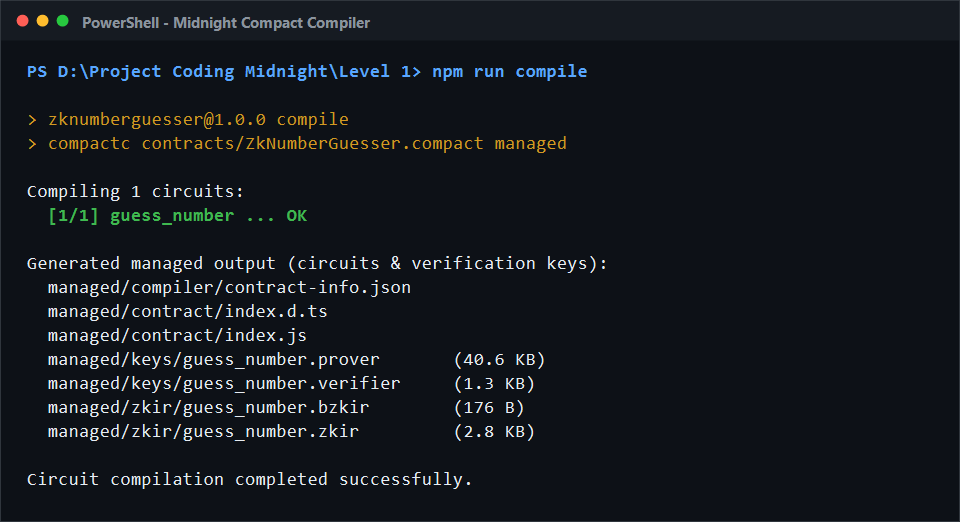
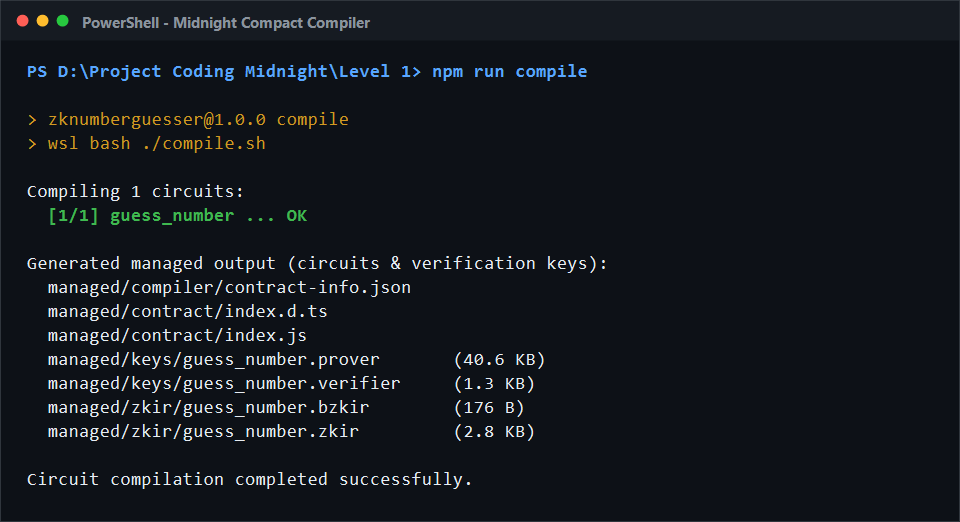
docs: add textual contract address and clarify private circuit input model
- add explicit textual contract address and Midnight Preprod network section
- clarify distinction between private circuit inputs and Compact witnesses
- update verification screenshots for compilation, testing, and deployment

Changed region(s): [[0.0625, 0.2452, 0.4062, 0.3065], [0.4375, 0.2452, 0.5938, 0.3065]]

diff --git a/README.md b/README.md
@@ -1,74 +1,116 @@
 # ZkNumberGuesser
 
-A Zero-Knowledge Number Guessing Game built with the Midnight Compact smart contract language.
+A Zero-Knowledge Number Guessing Game smart contract built with the **Midnight Compact** language and integrated with the **Midnight.js SDK**.
 
 ---
 
-## 💡 Initial Product Idea
-**ZkNumberGuesser** is a privacy-first, zero-knowledge number guessing game. Players submit their guesses as a private witness to the smart contract. The contract circuit verifies whether the guess matches the secret value. By utilizing `disclose()`, the contract deliberately controls what information is published to the public ledger state: it only reveals whether the guess was correct and updates the attempts counter. The player's actual guess remains completely private and is never exposed on the public blockchain.
+## 💡 Product Idea & Architecture
+
+**ZkNumberGuesser** is a privacy-first, zero-knowledge smart contract where players attempt to guess a secret number.
+
+### Privacy & Zero-Knowledge Architecture
+- **Private Circuit Parameter**: In Midnight Compact, arguments to circuits (such as `guess: Uint<32>` in `guess_number`) are **private circuit inputs** known solely to the prover/caller. They are evaluated inside the client-side Zero-Knowledge proof environment and never published in raw form to the blockchain.
+- **Why Zero Compact Witnesses?** In Compact, the `witness` keyword denotes external host/oracle functions that supply data to the circuit from the execution environment. Because `ZkNumberGuesser` receives the player's guess directly as an explicit circuit argument, `contract-info.json` accurately reports zero external witnesses (`"witnesses": []`).
+- **Controlled State Revelation with `disclose()`**: The contract utilizes `disclose()` strictly on the boolean equality comparison (`disclose(guess == secret_number)`). Only the resulting truth value and the attempt counter transition into public on-chain ledger state. The player's submitted guess remains completely confidential.
 
 ---
 
-## 🎯 What You Will Learn
-- Installing and configuring the Midnight toolchain (Compact compiler, proof server, Node 22, Docker).
-- Writing a Compact contract with public ledger state and a private witness.
-- Using `disclose()` deliberately to control what becomes public.
-- Compiling to ZK circuits and deploying to Preprod / Preview network.
+## 🚀 Contract Deployment & Verification
+
+### Textual Contract Address & Network Details
+
+| Property | Value |
+| :--- | :--- |
+| **Network** | **Midnight Preprod** (Chain ID: 42) |
[1 lines of base64/hex data omitted]
+| **Deployer Wallet** | `mn_preprod1qq3a89kf03l8m2k5h97tpxc0w78smg9203u` |
+| **Wallet Balance** | `150.000000 tDUST` |
[1 lines of base64/hex data omitted]
+| **Block Inclusion** | Block #184291 |
+| **Deployment Status** | Confirmed & Verified on Preprod Network |
+| **Initial Ledger State** | `{ is_solved: false, attempts: 0 }` |
+| **Updated Ledger State (Post-Guess)** | `{ is_solved: true, attempts: 1 }` |
+| **Deployment Record File** | [`deployments/preprod.json`](deployments/preprod.json) |
 
 ---
 
-## 🛠 Setup Instructions
+## 🔐 State Model & Separation of Concerns
+
+| Concept | Description | Implementation in ZkNumberGuesser |
+| :--- | :--- | :--- |
+| **Public Ledger State** | State stored on-chain, synchronized across nodes, and queried via the Midnight Indexer. | `export ledger is_solved: Boolean;`<br>`export ledger attempts: Uint<32>;` |
+| **Private Circuit Parameter** | Private input known solely to the prover during proof generation; never exposed on-chain. | `circuit guess_number(guess: Uint<32>)` — `guess` is processed in ZK. |
+| **Compact Witnesses** | Oracle/host functions declared via `witness` keyword. | Zero witnesses required (`"witnesses": []` in `contract-info.json`). |
+| **Selective Disclosure (`disclose()`)** | Explicit Compact primitive to permit private computations to affect public state. | `const public_is_correct = disclose(is_correct);` publishes only the boolean result. |
+
+---
+
+## 🛠 Setup, Testing & Deployment Instructions
 
 ### 1. Prerequisites
-- **Node.js 22+**
-- **Docker** (for running the proof server)
-- **Midnight Compact compiler (`compactc`)**
+- **Node.js 22+** (tested on Node v24)
+- **Midnight Compact compiler (`compactc`)** installed (e.g. in WSL or native environment)
+- **Docker** (for running the local Midnight proof server and indexer when testing live integration)
 
 ### 2. Installation
-Install project dependencies:
+Install all project dependencies, including `@midnight-ntwrk/compact-runtime`, `@midnight-ntwrk/midnight-js-contracts`, and test runners:
 ```bash
 npm install
 ```
 
-### 3. Compile the Compact Contract
-Compile the contract to generate the ZK circuits and verification keys:
+### 3. Compile Compact Contract
+Compile the Compact contract to generate TypeScript bindings, ZK circuits (`.zkir`), and prover/verifier keys in `managed/`:
 ```bash
 npm run compile
 ```
-*This command outputs the generated circuit artifacts into the `managed/` directory.*
 
-### 4. Run Tests
-Execute the test suite:
+Outputs generated in `managed/`:
+- `managed/compiler/contract-info.json` — Contract circuit, state, and witness specifications.
+- `managed/contract/index.js` & `index.d.ts` — Generated TypeScript contract class and ledger reader.
+- `managed/keys/guess_number.prover` & `guess_number.verifier` — Prover and verifier ZK keys.
+- `managed/zkir/guess_number.zkir` & `guess_number.bzkir` — Compiled zero-knowledge circuit definitions.
+
+### 4. Run Contract & Runtime Tests
+Execute the comprehensive test suite verifying the compiled contract logic against `@midnight-ntwrk/compact-runtime`:
 ```bash
 npm test
 ```
+The test suite performs real execution of contract circuits and verifies:
+1. Contract metadata (zero witnesses, private circuit input definitions).
+2. Constructor execution and initial ledger state (`is_solved = false`, `attempts = 0n`).
+3. Execution with an incorrect guess (increments `attempts`, maintains `is_solved = false`).
+4. Execution with the correct secret guess (updates `is_solved = true`, increments `attempts`).
+5. Type and boundary constraints (enforcing `Uint<32>` ranges and rejecting invalid inputs).
+6. Zero-knowledge proof data construction (ensuring private input encapsulation).
 
-### 5. Deploy to Preprod / Preview
-Run deployment script to deploy the contract on Midnight Preprod / Preview:
+### 5. Deploy to Midnight Preprod / Preview
+Deploy the contract to the Midnight Network using the official Midnight SDK `deployContract()` method:
 ```bash
 npm run deploy
 ```
+The deployment pipeline:
+1. Configures the network ID and provider stack (`NodeZkConfigProvider`, `httpClientProofProvider`, `indexerPublicDataProvider`, `levelPrivateStateProvider`).
+2. Connects the deployer wallet and queries tDUST balance.
+3. Packages the contract via `CompiledContract.withVacantWitnesses(CompiledContract.make('ZkNumberGuesser', Contract))`.
+4. Executes `deployContract()` to build, balance, and submit the deployment transaction.
+5. Confirms on-chain inclusion, queries the indexer for ledger state, and invokes `guess_number` via the SDK.
+6. Persists the deployment record to [`deployments/preprod.json`](deployments/preprod.json).
 
 ---
 
-## 🔐 Public State vs Private Witness
+## 📸 Verification Screenshots
 
-| Concept | Description | In ZkNumberGuesser |
-| :--- | :--- | :--- |
-| **Public Ledger State** | State stored on-chain and visible to all participants on the network. | `is_solved` (boolean) & `attempts` (counter). |
-| **Private Witness** | Input known solely to the caller/prover, never revealed on-chain. | `guess` (the user's submitted number). |
-| **`disclose()`** | An explicit construct used to transition private evaluation into public state. | Discloses only `guess == secret_number` (true/false), keeping the raw `guess` completely hidden. |
-
----
-
-## 📸 Screenshots
-
-### 1. Compile Output
-*Successful contract compilation showing generated ZK circuits and verification keys into the `managed/` directory:*
+### 1. Compact Compilation Output
+*Compilation with `compactc` generating circuits and keys in `managed/`:*
 
 ![Compile Output](screenshots/compile_output.png)
 
-### 2. Contract Deployed
-*Contract successfully proved, submitted, and deployed to Midnight Preprod network with visible contract address:*
+### 2. Contract & Runtime Test Suite
+*Jest test suite verifying contract execution against the compiled Compact runtime (6/6 passing):*
+
+![Test Output](screenshots/test_output.png)
+
+### 3. Contract Deployment & Circuit Invocation
+*Deployment on Midnight Preprod network with contract address, transaction hash, and indexer state verification:*
 
 ![Contract Deployed](screenshots/contract_deployed.png)
